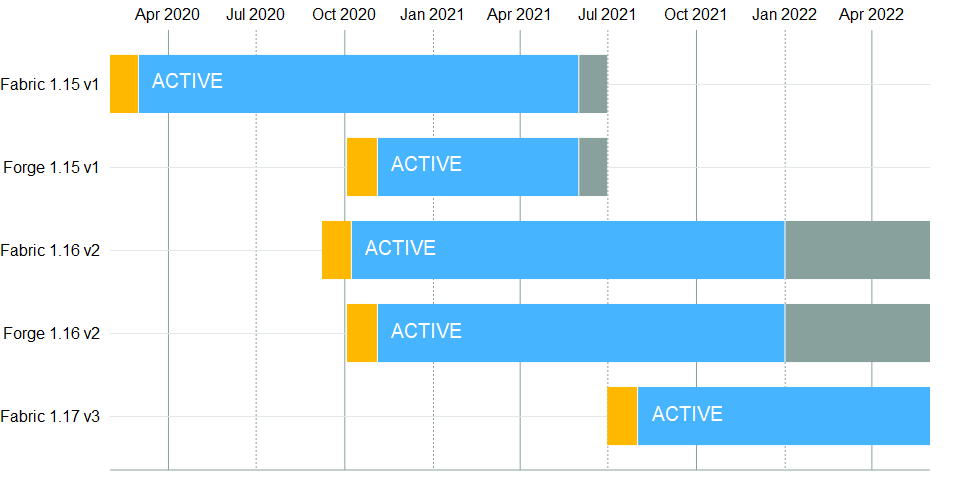
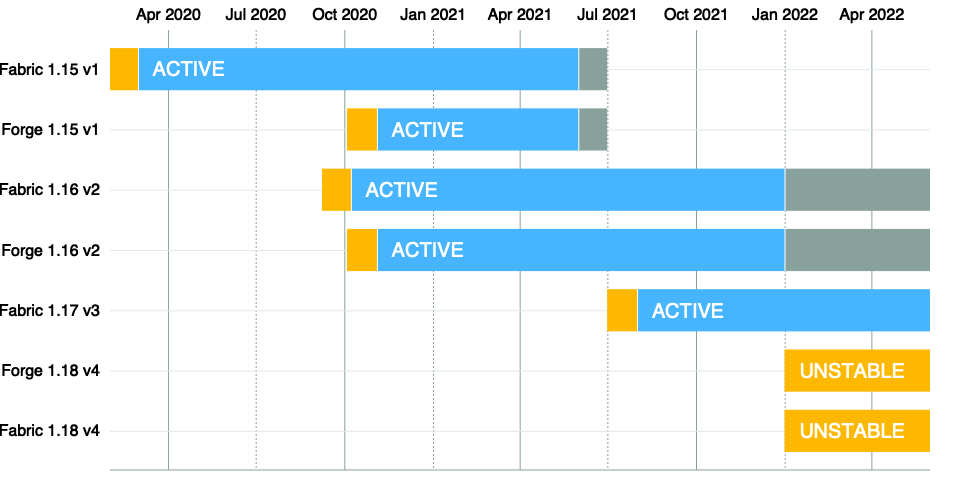
Update shuffle lts for 1.18 version

diff --git a/out/shuffle.html b/out/shuffle.html
@@ -34,4 +34,4 @@
   text-anchor: start;
   dominant-baseline: middle;
   text-transform: uppercase;
-} ]]></style></defs><g id="bar-container" transform="translate(110, 30)"><g class="axis axis--x" fill="none" font-size="10" font-family="sans-serif" text-anchor="middle"><g class="tick" opacity="1" transform="translate(57.974931453192326,0)"><line stroke="#89a19d" y2="440" x1="0.5" x2="0.5"></line><text fill="#000" y="0" x="0.5" dy="-10">Apr 2020</text></g><g class="tick" opacity="1" transform="translate(145.66000783392087,0)"><line stroke="#89a19d" y2="440" x1="0.5" x2="0.5" stroke-dasharray="2,2"></line><text fill="#000" y="0" x="0.5" dy="-10">Jul 2020</text></g><g class="tick" opacity="1" transform="translate(234.30865648256952,0)"><line stroke="#89a19d" y2="440" x1="0.5" x2="0.5"></line><text fill="#000" y="0" x="0.5" dy="-10">Oct 2020</text></g><g class="tick" opacity="1" transform="translate(322.99745397571485,0)"><line stroke="#89a19d" y2="440" x1="0.5" x2="0.5" stroke-dasharray="2,2"></line><text fill="#000" y="0" x="0.5" dy="-10">Jan 2021</text></g><g class="tick" opacity="1" transform="translate(409.67880924402664,0)"><line stroke="#89a19d" y2="440" x1="0.5" x2="0.5"></line><text fill="#000" y="0" x="0.5" dy="-10">Apr 2021</text></g><g class="tick" opacity="1" transform="translate(497.3638856247552,0)"><line stroke="#89a19d" y2="440" x1="0.5" x2="0.5" stroke-dasharray="2,2"></line><text fill="#000" y="0" x="0.5" dy="-10">Jul 2021</text></g><g class="tick" opacity="1" transform="translate(586.0125342734038,0)"><line stroke="#89a19d" y2="440" x1="0.5" x2="0.5"></line><text fill="#000" y="0" x="0.5" dy="-10">Oct 2021</text></g><g class="tick" opacity="1" transform="translate(674.7013317665492,0)"><line stroke="#89a19d" y2="440" x1="0.5" x2="0.5" stroke-dasharray="2,2"></line><text fill="#000" y="0" x="0.5" dy="-10">Jan 2022</text></g><g class="tick" opacity="1" transform="translate(761.382687034861,0)"><line stroke="#89a19d" y2="440" x1="0.5" x2="0.5"></line><text fill="#000" y="0" x="0.5" dy="-10">Apr 2022</text></g></g><g class="axis axis--y" fill="none" font-size="10" font-family="sans-serif" text-anchor="start"><g class="tick" opacity="1" transform="translate(0,53.96226415094337)"><line stroke="#e1e7e7" x2="820" y1="0.5" y2="0.5"></line><text fill="#000" x="0" y="0.5" dy="0.32em" dx="-10">  Fabric 1.15 v1</text></g><g class="tick" opacity="1" transform="translate(0,136.98113207547166)"><line stroke="#e1e7e7" x2="820" y1="0.5" y2="0.5"></line><text fill="#000" x="0" y="0.5" dy="0.32em" dx="-10">  Forge 1.15 v1</text></g><g class="tick" opacity="1" transform="translate(0,219.99999999999997)"><line stroke="#e1e7e7" x2="820" y1="0.5" y2="0.5"></line><text fill="#000" x="0" y="0.5" dy="0.32em" dx="-10">  Fabric 1.16 v2</text></g><g class="tick" opacity="1" transform="translate(0,303.0188679245283)"><line stroke="#e1e7e7" x2="820" y1="0.5" y2="0.5"></line><text fill="#000" x="0" y="0.5" dy="0.32em" dx="-10">  Forge 1.16 v2</text></g><g class="tick" opacity="1" transform="translate(0,386.0377358490566)"><line stroke="#e1e7e7" x2="820" y1="0.5" y2="0.5"></line><text fill="#000" x="0" y="0.5" dy="0.32em" dx="-10">  Fabric 1.17 v3</text></g><line y1="440" y2="440" x2="820" stroke="#89a19d"></line></g><g><rect class="bar maintenance" x="468.2961222091657" y="24.90566037735846" width="28.907168037602844" height="58.113207547169814"></rect><rect class="bar-join maintenance" x="467.2961222091657" y="24.90566037735846" width="2" height="58.113207547169814" style="opacity: 1;"></rect><text class="label" x="483.2961222091657" y="55.96226415094337" style="opacity: 0;">maintenance</text></g><g><rect class="bar active" x="27.943595769682723" y="24.90566037735846" width="440.352526439483" height="58.113207547169814"></rect><rect class="bar-join active" x="26.943595769682723" y="24.90566037735846" width="2" height="58.113207547169814" style="opacity: 1;"></rect><text class="label" x="42.94359576968272" y="55.96226415094337" style="opacity: 1;">active</text></g><g><rect class="bar unstable" x="0" y="24.90566037735846" width="27.943595769682723" height="58.113207547169814"></rect><rect class="bar-join unstable" x="-1" y="24.90566037735846" width="2" height="58.113207547169814" style="opacity: 0;"></rect><text class="label" x="15" y="55.96226415094337" style="opacity: 0;">unstable</text></g><g><rect class="bar maintenance" x="468.2961222091657" y="107.92452830188677" width="28.907168037602844" height="58.113207547169814"></rect><rect class="bar-join maintenance" x="467.2961222091657" y="107.92452830188677" width="2" height="58.113207547169814" style="opacity: 1;"></rect><text class="label" x="483.2961222091657" y="138.98113207547166" style="opacity: 0;">maintenance</text></g><g><rect class="bar active" x="266.9095182138661" y="107.92452830188677" width="201.3866039952996" height="58.113207547169814"></rect><rect class="bar-join active" x="265.9095182138661" y="107.92452830188677" width="2" height="58.113207547169814" style="opacity: 1;"></rect><text class="label" x="281.9095182138661" y="138.98113207547166" style="opacity: 1;">active</text></g><g><rect class="bar unstable" x="237.03877790834312" y="107.92452830188677" width="29.870740305522958" height="58.113207547169814"></rect><rect class="bar-join unstable" x="236.03877790834312" y="107.92452830188677" width="2" height="58.113207547169814" style="opacity: 0;"></rect><text class="label" x="252.03877790834312" y="138.98113207547166" style="opacity: 0;">unstable</text></g><g><rect class="bar maintenance" x="674.5005875440659" y="190.94339622641508" width="145.49941245593413" height="58.113207547169814"></rect><rect class="bar-join maintenance" x="673.5005875440659" y="190.94339622641508" width="2" height="58.113207547169814" style="opacity: 1;"></rect><text class="label" x="689.5005875440659" y="221.99999999999997" style="opacity: 0;">maintenance</text></g><g><rect class="bar active" x="240.8930669800235" y="190.94339622641508" width="433.6075205640424" height="58.113207547169814"></rect><rect class="bar-join active" x="239.8930669800235" y="190.94339622641508" width="2" height="58.113207547169814" style="opacity: 1;"></rect><text class="label" x="255.8930669800235" y="221.99999999999997" style="opacity: 1;">active</text></g><g><rect class="bar unstable" x="211.98589894242065" y="190.94339622641508" width="28.907168037602844" height="58.113207547169814"></rect><rect class="bar-join unstable" x="210.98589894242065" y="190.94339622641508" width="2" height="58.113207547169814" style="opacity: 0;"></rect><text class="label" x="226.98589894242065" y="221.99999999999997" style="opacity: 0;">unstable</text></g><g><rect class="bar maintenance" x="674.5005875440659" y="273.9622641509434" width="145.49941245593413" height="58.113207547169814"></rect><rect class="bar-join maintenance" x="673.5005875440659" y="273.9622641509434" width="2" height="58.113207547169814" style="opacity: 1;"></rect><text class="label" x="689.5005875440659" y="305.0188679245283" style="opacity: 0;">maintenance</text></g><g><rect class="bar active" x="266.9095182138661" y="273.9622641509434" width="407.5910693301998" height="58.113207547169814"></rect><rect class="bar-join active" x="265.9095182138661" y="273.9622641509434" width="2" height="58.113207547169814" style="opacity: 1;"></rect><text class="label" x="281.9095182138661" y="305.0188679245283" style="opacity: 1;">active</text></g><g><rect class="bar unstable" x="237.03877790834312" y="273.9622641509434" width="29.870740305522958" height="58.113207547169814"></rect><rect class="bar-join unstable" x="236.03877790834312" y="273.9622641509434" width="2" height="58.113207547169814" style="opacity: 0;"></rect><text class="label" x="252.03877790834312" y="305.0188679245283" style="opacity: 0;">unstable</text></g><g><rect class="bar active" x="527.0740305522914" y="356.9811320754717" width="292.92596944770855" height="58.113207547169814"></rect><rect class="bar-join active" x="526.0740305522914" y="356.9811320754717" width="2" height="58.113207547169814" style="opacity: 1;"></rect><text class="label" x="542.0740305522914" y="388.0377358490566" style="opacity: 1;">active</text></g><g><rect class="bar unstable" x="497.2032902467685" y="356.9811320754717" width="29.87074030552293" height="58.113207547169814"></rect><rect class="bar-join unstable" x="496.2032902467685" y="356.9811320754717" width="2" height="58.113207547169814" style="opacity: 0;"></rect><text class="label" x="512.2032902467686" y="388.0377358490566" style="opacity: 0;">unstable</text></g></g></svg></body></html>
+} ]]></style></defs><g id="bar-container" transform="translate(110, 30)"><g class="axis axis--x" fill="none" font-size="10" font-family="sans-serif" text-anchor="middle"><g class="tick" opacity="1" transform="translate(57.974931453192326,0)"><line stroke="#89a19d" y2="440" x1="0.5" x2="0.5"></line><text fill="#000" y="0" x="0.5" dy="-10">Apr 2020</text></g><g class="tick" opacity="1" transform="translate(145.66000783392087,0)"><line stroke="#89a19d" y2="440" x1="0.5" x2="0.5" stroke-dasharray="2,2"></line><text fill="#000" y="0" x="0.5" dy="-10">Jul 2020</text></g><g class="tick" opacity="1" transform="translate(234.30865648256952,0)"><line stroke="#89a19d" y2="440" x1="0.5" x2="0.5"></line><text fill="#000" y="0" x="0.5" dy="-10">Oct 2020</text></g><g class="tick" opacity="1" transform="translate(322.99745397571485,0)"><line stroke="#89a19d" y2="440" x1="0.5" x2="0.5" stroke-dasharray="2,2"></line><text fill="#000" y="0" x="0.5" dy="-10">Jan 2021</text></g><g class="tick" opacity="1" transform="translate(409.67880924402664,0)"><line stroke="#89a19d" y2="440" x1="0.5" x2="0.5"></line><text fill="#000" y="0" x="0.5" dy="-10">Apr 2021</text></g><g class="tick" opacity="1" transform="translate(497.3638856247552,0)"><line stroke="#89a19d" y2="440" x1="0.5" x2="0.5" stroke-dasharray="2,2"></line><text fill="#000" y="0" x="0.5" dy="-10">Jul 2021</text></g><g class="tick" opacity="1" transform="translate(586.0125342734038,0)"><line stroke="#89a19d" y2="440" x1="0.5" x2="0.5"></line><text fill="#000" y="0" x="0.5" dy="-10">Oct 2021</text></g><g class="tick" opacity="1" transform="translate(674.7013317665492,0)"><line stroke="#89a19d" y2="440" x1="0.5" x2="0.5" stroke-dasharray="2,2"></line><text fill="#000" y="0" x="0.5" dy="-10">Jan 2022</text></g><g class="tick" opacity="1" transform="translate(761.382687034861,0)"><line stroke="#89a19d" y2="440" x1="0.5" x2="0.5"></line><text fill="#000" y="0" x="0.5" dy="-10">Apr 2022</text></g></g><g class="axis axis--y" fill="none" font-size="10" font-family="sans-serif" text-anchor="start"><g class="tick" opacity="1" transform="translate(0,39.17808219178082)"><line stroke="#e1e7e7" x2="820" y1="0.5" y2="0.5"></line><text fill="#000" x="0" y="0.5" dy="0.32em" dx="-10">  Fabric 1.15 v1</text></g><g class="tick" opacity="1" transform="translate(0,99.45205479452054)"><line stroke="#e1e7e7" x2="820" y1="0.5" y2="0.5"></line><text fill="#000" x="0" y="0.5" dy="0.32em" dx="-10">  Forge 1.15 v1</text></g><g class="tick" opacity="1" transform="translate(0,159.72602739726025)"><line stroke="#e1e7e7" x2="820" y1="0.5" y2="0.5"></line><text fill="#000" x="0" y="0.5" dy="0.32em" dx="-10">  Fabric 1.16 v2</text></g><g class="tick" opacity="1" transform="translate(0,220)"><line stroke="#e1e7e7" x2="820" y1="0.5" y2="0.5"></line><text fill="#000" x="0" y="0.5" dy="0.32em" dx="-10">  Forge 1.16 v2</text></g><g class="tick" opacity="1" transform="translate(0,280.2739726027397)"><line stroke="#e1e7e7" x2="820" y1="0.5" y2="0.5"></line><text fill="#000" x="0" y="0.5" dy="0.32em" dx="-10">  Fabric 1.17 v3</text></g><g class="tick" opacity="1" transform="translate(0,340.54794520547944)"><line stroke="#e1e7e7" x2="820" y1="0.5" y2="0.5"></line><text fill="#000" x="0" y="0.5" dy="0.32em" dx="-10">  Forge 1.18 v4</text></g><g class="tick" opacity="1" transform="translate(0,400.82191780821915)"><line stroke="#e1e7e7" x2="820" y1="0.5" y2="0.5"></line><text fill="#000" x="0" y="0.5" dy="0.32em" dx="-10">  Fabric 1.18 v4</text></g><line y1="440" y2="440" x2="820" stroke="#89a19d"></line></g><g><rect class="bar maintenance" x="468.2961222091657" y="18.082191780821915" width="28.907168037602844" height="42.1917808219178"></rect><rect class="bar-join maintenance" x="467.2961222091657" y="18.082191780821915" width="2" height="42.1917808219178" style="opacity: 1;"></rect><text class="label" x="483.2961222091657" y="41.17808219178082" style="opacity: 0;">maintenance</text></g><g><rect class="bar active" x="27.943595769682723" y="18.082191780821915" width="440.352526439483" height="42.1917808219178"></rect><rect class="bar-join active" x="26.943595769682723" y="18.082191780821915" width="2" height="42.1917808219178" style="opacity: 1;"></rect><text class="label" x="42.94359576968272" y="41.17808219178082" style="opacity: 1;">active</text></g><g><rect class="bar unstable" x="0" y="18.082191780821915" width="27.943595769682723" height="42.1917808219178"></rect><rect class="bar-join unstable" x="-1" y="18.082191780821915" width="2" height="42.1917808219178" style="opacity: 0;"></rect><text class="label" x="15" y="41.17808219178082" style="opacity: 0;">unstable</text></g><g><rect class="bar maintenance" x="468.2961222091657" y="78.35616438356163" width="28.907168037602844" height="42.1917808219178"></rect><rect class="bar-join maintenance" x="467.2961222091657" y="78.35616438356163" width="2" height="42.1917808219178" style="opacity: 1;"></rect><text class="label" x="483.2961222091657" y="101.45205479452054" style="opacity: 0;">maintenance</text></g><g><rect class="bar active" x="266.9095182138661" y="78.35616438356163" width="201.3866039952996" height="42.1917808219178"></rect><rect class="bar-join active" x="265.9095182138661" y="78.35616438356163" width="2" height="42.1917808219178" style="opacity: 1;"></rect><text class="label" x="281.9095182138661" y="101.45205479452054" style="opacity: 1;">active</text></g><g><rect class="bar unstable" x="237.03877790834312" y="78.35616438356163" width="29.870740305522958" height="42.1917808219178"></rect><rect class="bar-join unstable" x="236.03877790834312" y="78.35616438356163" width="2" height="42.1917808219178" style="opacity: 0;"></rect><text class="label" x="252.03877790834312" y="101.45205479452054" style="opacity: 0;">unstable</text></g><g><rect class="bar maintenance" x="674.5005875440659" y="138.63013698630135" width="145.49941245593413" height="42.1917808219178"></rect><rect class="bar-join maintenance" x="673.5005875440659" y="138.63013698630135" width="2" height="42.1917808219178" style="opacity: 1;"></rect><text class="label" x="689.5005875440659" y="161.72602739726025" style="opacity: 0;">maintenance</text></g><g><rect class="bar active" x="240.8930669800235" y="138.63013698630135" width="433.6075205640424" height="42.1917808219178"></rect><rect class="bar-join active" x="239.8930669800235" y="138.63013698630135" width="2" height="42.1917808219178" style="opacity: 1;"></rect><text class="label" x="255.8930669800235" y="161.72602739726025" style="opacity: 1;">active</text></g><g><rect class="bar unstable" x="211.98589894242065" y="138.63013698630135" width="28.907168037602844" height="42.1917808219178"></rect><rect class="bar-join unstable" x="210.98589894242065" y="138.63013698630135" width="2" height="42.1917808219178" style="opacity: 0;"></rect><text class="label" x="226.98589894242065" y="161.72602739726025" style="opacity: 0;">unstable</text></g><g><rect class="bar maintenance" x="674.5005875440659" y="198.9041095890411" width="145.49941245593413" height="42.1917808219178"></rect><rect class="bar-join maintenance" x="673.5005875440659" y="198.9041095890411" width="2" height="42.1917808219178" style="opacity: 1;"></rect><text class="label" x="689.5005875440659" y="222" style="opacity: 0;">maintenance</text></g><g><rect class="bar active" x="266.9095182138661" y="198.9041095890411" width="407.5910693301998" height="42.1917808219178"></rect><rect class="bar-join active" x="265.9095182138661" y="198.9041095890411" width="2" height="42.1917808219178" style="opacity: 1;"></rect><text class="label" x="281.9095182138661" y="222" style="opacity: 1;">active</text></g><g><rect class="bar unstable" x="237.03877790834312" y="198.9041095890411" width="29.870740305522958" height="42.1917808219178"></rect><rect class="bar-join unstable" x="236.03877790834312" y="198.9041095890411" width="2" height="42.1917808219178" style="opacity: 0;"></rect><text class="label" x="252.03877790834312" y="222" style="opacity: 0;">unstable</text></g><g><rect class="bar active" x="527.0740305522914" y="259.17808219178085" width="292.92596944770855" height="42.1917808219178"></rect><rect class="bar-join active" x="526.0740305522914" y="259.17808219178085" width="2" height="42.1917808219178" style="opacity: 1;"></rect><text class="label" x="542.0740305522914" y="282.2739726027397" style="opacity: 1;">active</text></g><g><rect class="bar unstable" x="497.2032902467685" y="259.17808219178085" width="29.87074030552293" height="42.1917808219178"></rect><rect class="bar-join unstable" x="496.2032902467685" y="259.17808219178085" width="2" height="42.1917808219178" style="opacity: 0;"></rect><text class="label" x="512.2032902467686" y="282.2739726027397" style="opacity: 0;">unstable</text></g><g><rect class="bar unstable" x="674.5005875440659" y="319.45205479452056" width="145.49941245593413" height="42.1917808219178"></rect><rect class="bar-join unstable" x="673.5005875440659" y="319.45205479452056" width="2" height="42.1917808219178" style="opacity: 0;"></rect><text class="label" x="689.5005875440659" y="342.54794520547944" style="opacity: 1;">unstable</text></g><g><rect class="bar unstable" x="674.5005875440659" y="379.7260273972603" width="145.49941245593413" height="42.1917808219178"></rect><rect class="bar-join unstable" x="673.5005875440659" y="379.7260273972603" width="2" height="42.1917808219178" style="opacity: 0;"></rect><text class="label" x="689.5005875440659" y="402.82191780821915" style="opacity: 1;">unstable</text></g></g></svg></body></html>
